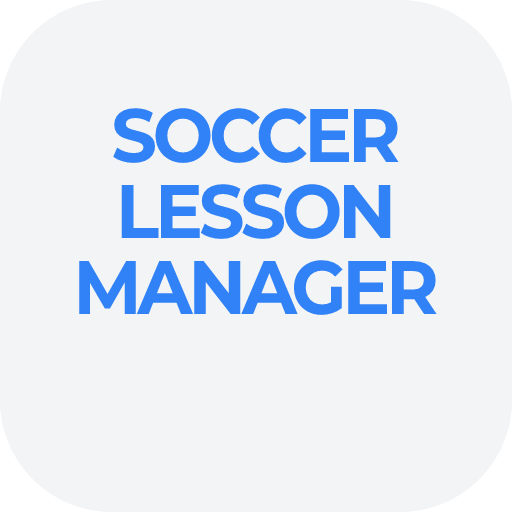
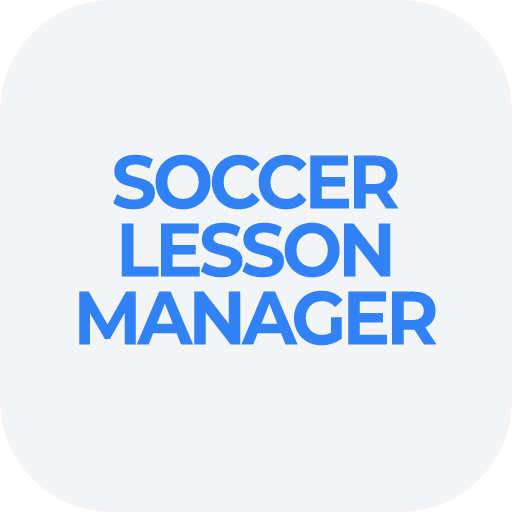
public 아이콘 텍스트 세로 중앙 정렬

Changed region(s): [[0.1562, 0.1875, 0.875, 0.6875]]

diff --git a/index.html b/index.html
@@ -11,10 +11,10 @@
 <meta name="theme-color" content="#3182F6"/>
 <meta name="apple-mobile-web-app-capable" content="yes"/>
 <meta name="apple-mobile-web-app-title" content="축구레슨"/>
-<link rel="manifest" href="/manifest.webmanifest?v=20260522-icon-lg"/>
-<link rel="icon" href="/icon.svg?v=20260522-icon-lg" type="image/svg+xml"/>
-<link rel="icon" href="/icons/icon-192.png?v=20260522-icon-lg" type="image/png" sizes="192x192"/>
-<link rel="apple-touch-icon" href="/apple-touch-icon.png?v=20260522-icon-lg"/>
+<link rel="manifest" href="/manifest.webmanifest?v=20260522-icon-center"/>
+<link rel="icon" href="/icon.svg?v=20260522-icon-center" type="image/svg+xml"/>
+<link rel="icon" href="/icons/icon-192.png?v=20260522-icon-center" type="image/png" sizes="192x192"/>
+<link rel="apple-touch-icon" href="/apple-touch-icon.png?v=20260522-icon-center"/>
 <script src="https://cdn.tailwindcss.com"></script>
 <script>tailwind.config={theme:{extend:{colors:{toss:{bg:'#F2F4F6',text:'#191F28',sub:'#4E5968',muted:'#8B95A1',blue:'#3182F6',green:'#0D7A5F',pink:'#F04452',emerald:'#00D084'}},fontFamily:{sans:['Paperlogy','system-ui','sans-serif']},boxShadow:{toss:'0 2px 16px rgba(0,0,0,.06)','toss-lg':'0 8px 24px rgba(0,0,0,.08)'}}}}</script>
 <link rel="stylesheet" href="https://cdn.jsdelivr.net/gh/fonts-archive/Paperlogy/Paperlogy.css"/>
@@ -275,7 +275,7 @@ const WEEKDAYS=['일','월','화','수','목','금','토'];
 let state={players:[],schedules:[]};
 let currentView='home',calendarMode='month',calendarDate=new Date(),selectedDate=null,detailTab='payment',historyViewMonth=null;
 let cloudSaveTimer=null,cloudUnsub=null,lastCloudPush=0,applyingRemote=false,firebaseReady=false,bootFinished=false,currentAuthUid=null,currentSyncSession=0;
-const APP_BUILD='20260522-soccer-v4';
+const APP_BUILD='20260522-soccer-v5';
 
 function getStorageKey(authUid){return authUid?STORAGE_KEY_BASE+'-'+authUid:STORAGE_KEY_BASE;}
 function readLocalCache(authUid){